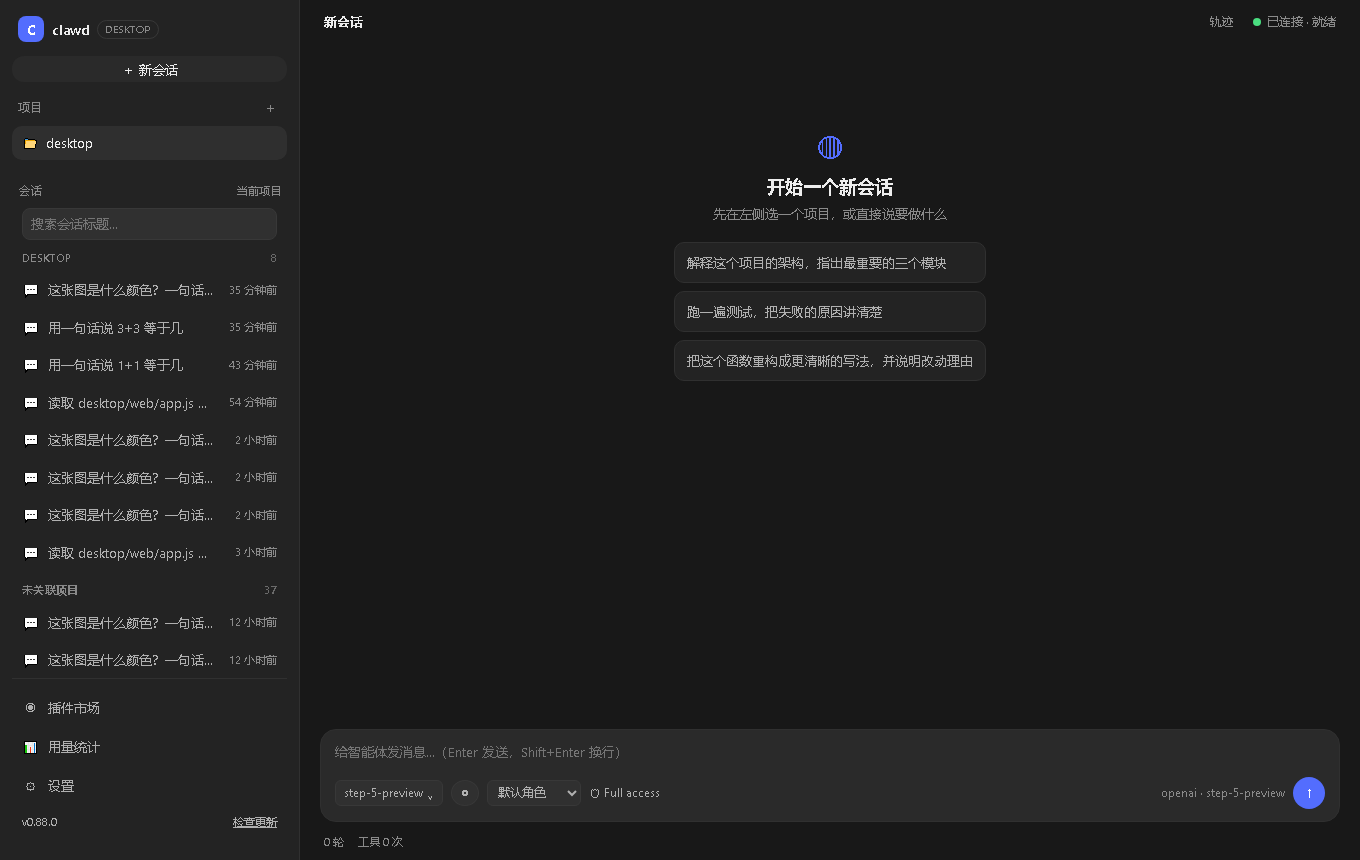
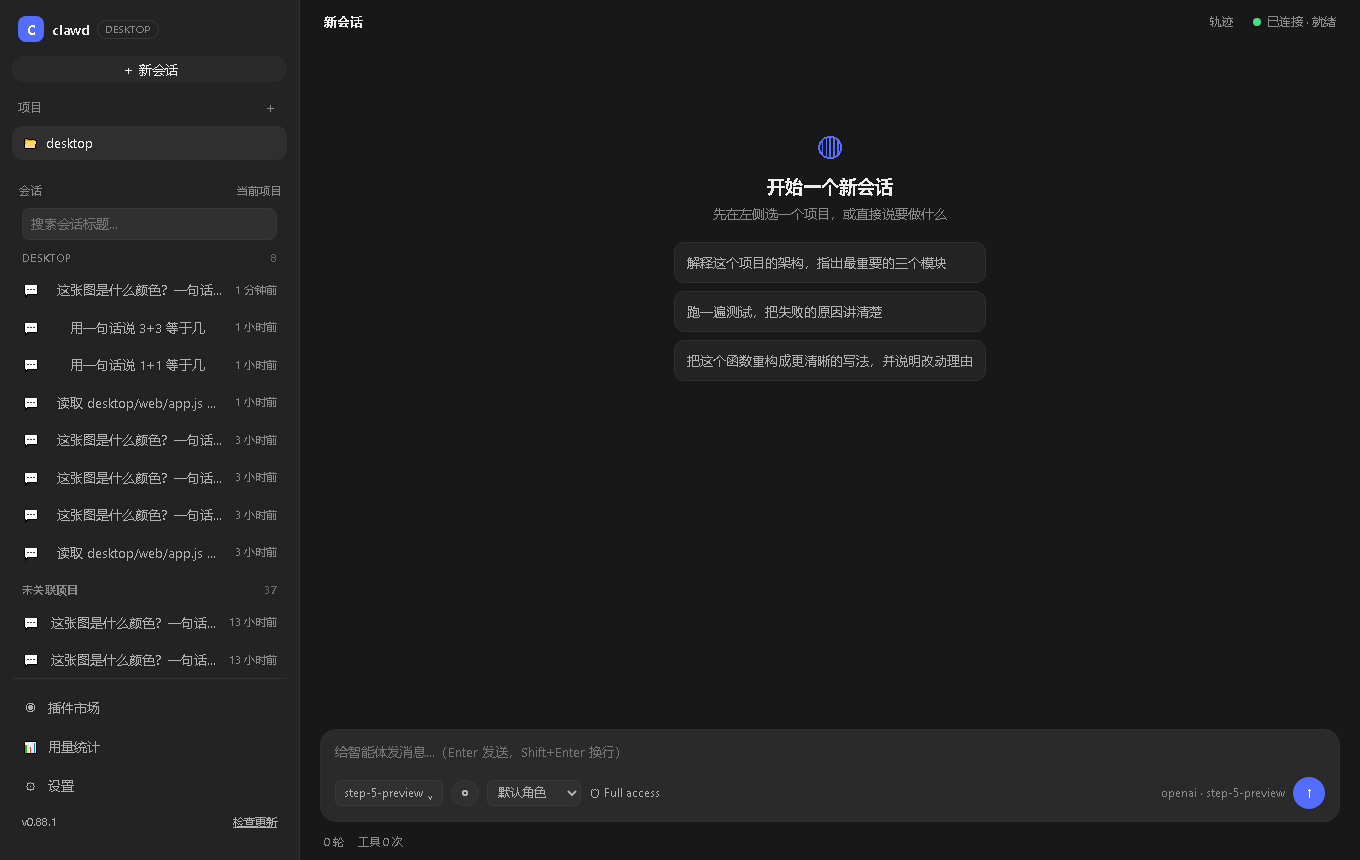
fix: v0.88.2 — UI 细节：标题残留提示词、会话行被按钮挤压
1) 会话标题里仍显示 [随消息附图 1 张，已保存到本机: …]
   原因：会话标题存的是 goal 的前 60 字（被截断，没有收尾的 `]`），而剥离正则要求闭合括号。
   修：正则不再要求闭合；对「完整 note / 截断 note / 纯文本」三种输入逐个验证过。

2) 会话行悬停出现 ✎/✕ 后，标题被挤成一两个字宽、时间被压成竖排
   修：标题 flex:1 1 auto + 省略号，时间 nowrap。

验证
- 控制台 UI E2E **32 项全绿**
- 截图复核 desktop/screenshots/21-session-loaded.png（标题已干净、会话行布局正常）

diff --git a/desktop/web/index.html b/desktop/web/index.html
@@ -63,6 +63,9 @@ aside{height:100vh;overflow:hidden;display:flex;flex-direction:column}
 .stopped-note{margin:6px 0 10px;font-size:12px;color:var(--label-tertiary);text-align:center}
 /* 用量表格头不换行（"输出"曾被挤成两行） */
 .usage-table th,#usageRows th,#usageChart+table th{white-space:nowrap}
+/* 会话行：时间不能被悬停出现的按钮挤成竖排 */
+.session-item .time{white-space:nowrap;flex:0 0 auto}
+.session-item>span:not(.time):not(.session-tools){flex:1 1 auto;min-width:0;overflow:hidden;text-overflow:ellipsis;white-space:nowrap}
 /* 会话搜索框 + 悬停操作按钮 */
 .session-search{flex:0 0 auto;margin:0 10px 6px;height:28px;padding:0 8px;border-radius:var(--radius-s);border:1px solid var(--border-l1);background:var(--bg-layer-1);color:var(--label-primary);font-size:12px}
 .session-search:focus{outline:none;border-color:var(--brand)}

diff --git a/desktop/web/app.js b/desktop/web/app.js
@@ -154,7 +154,8 @@
   // Host 会把"随消息附图 N 张…"这类**给模型看的**说明拼进 goal 落盘；
   // 那是提示词，不是用户说的话 —— 气泡里必须剥掉（真实观感问题）。
   function stripAttachmentNote(text) {
-    const NOTE_RE = new RegExp(String.fromCharCode(10) + '*\\[随消息附图[\\s\\S]*?\\]\\s*$');
+    // 会话标题里的 goal 会被截断到 60 字（可能没有收尾的 `]`），所以不要求闭合括号
+    const NOTE_RE = new RegExp('\\n*\\[' + '随消息附图' + '[\\s\\S]*$');
     return String(text || '').replace(NOTE_RE, '').trim();
   }
 

diff --git a/CHANGELOG.md b/CHANGELOG.md
@@ -7,6 +7,17 @@
 
 ---
 
+## [v0.88.2] (2026-10-30) — UI 细节：标题残留提示词、会话行被按钮挤压
+
+- 会话标题里的 goal 会被截断到 60 字（没有收尾的 `]`），原来的剥离正则要求闭合括号 →
+  标题栏继续显示 `[随消息附图 1 张，已保存到本机: …`。改成不要求闭合，
+  并对「完整 note / 截断 note / 纯文本」三种输入做过验证。
+- 会话行悬停出现 `✎`/`✕` 后，标题被挤成一两个字宽、时间被压成竖排 →
+  标题 `flex:1 1 auto` + 省略号，时间 `nowrap`。
+- 验证：控制台 UI E2E **32 项全绿**；截图 `21-session-loaded.png` 复核。
+
+---
+
 ## [v0.88.1] (2026-10-30) — 会话重命名/删除/搜索 + 修内联图片 403
 
 **1. 会话管理（参考客户端标配）**

diff --git a/README.md b/README.md
@@ -2,7 +2,7 @@
 
 > **"让 AI 像交响乐团一样协作，让编程像呼吸一样自然。"**
 
-**当前版本**: v0.88.1 | **测试**: 见 `test_ledger.md` 与 `scripts/e2e_smoke.py` | **覆盖率**: 见 `coverage.json`（由 `pytest --cov=src` 生成） | **质量工具**: ruff, mypy, pytest-cov | **CI/CD**: GitHub Actions
+**当前版本**: v0.88.2 | **测试**: 见 `test_ledger.md` 与 `scripts/e2e_smoke.py` | **覆盖率**: 见 `coverage.json`（由 `pytest --cov=src` 生成） | **质量工具**: ruff, mypy, pytest-cov | **CI/CD**: GitHub Actions
 
 > 版本号以 `pyproject.toml` 为唯一真相源，`src.__version__` 自动读取，不再手工维护。
 > 具体数字请以命令输出为准，避免文档与代码漂移。
